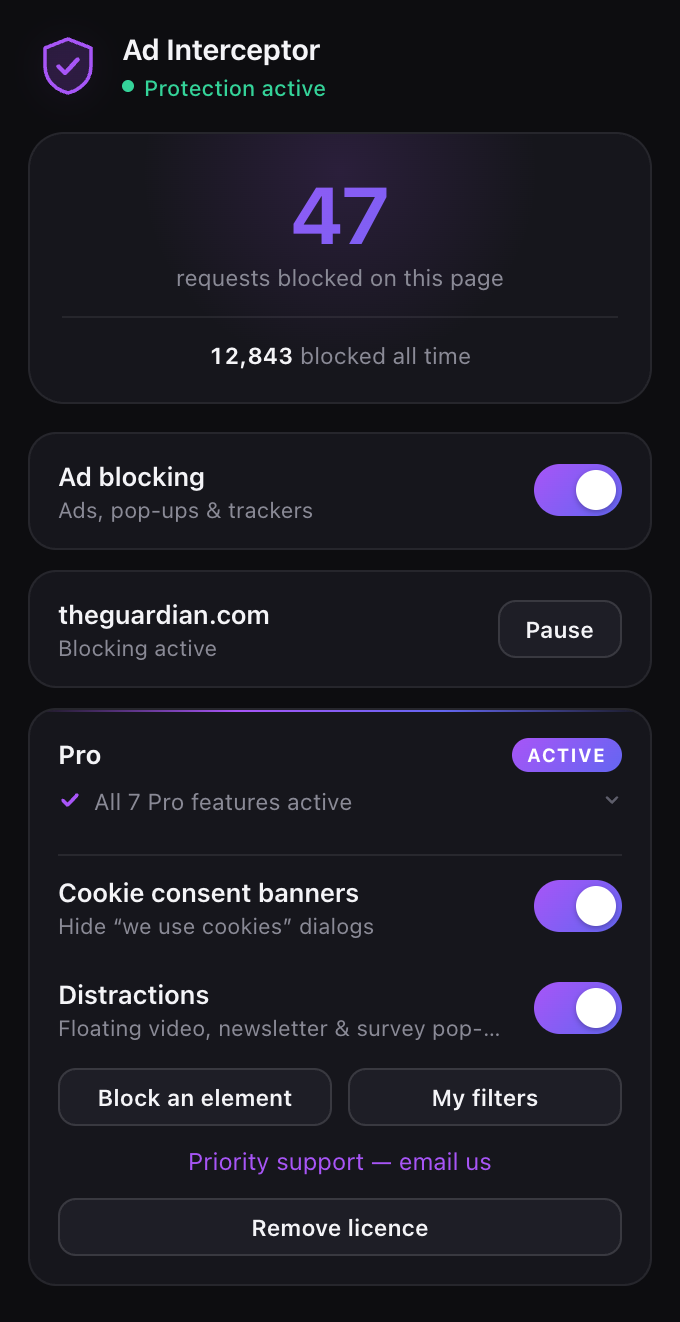
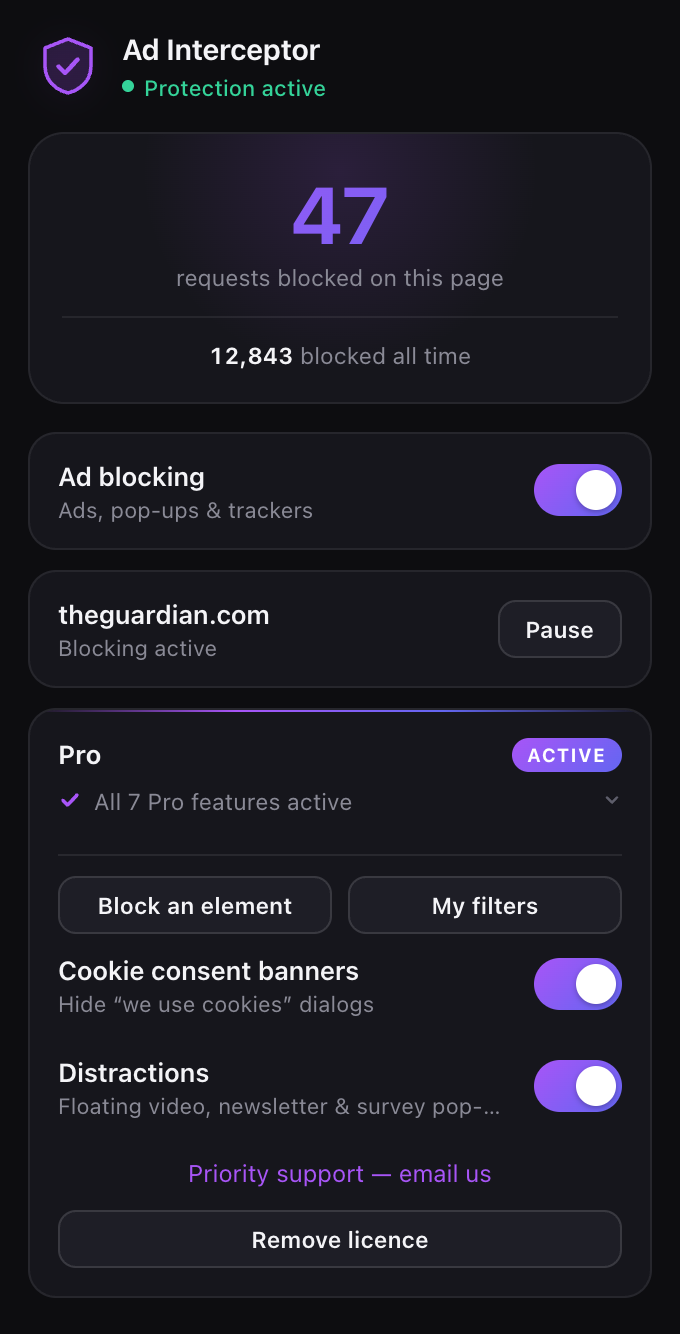
feat(popup): put the Pro actions above the toggles
Both toggles default to ON (background.js:162-163, popup.js:292), so a Pro user
almost never touches them — they are set-and-forget state. "Block an element"
and "My filters" are the only things in this section anyone actually opens the
popup to DO, and they were sitting underneath two switches that were already in
the position the user wanted.

State above actions buries the actions. Swapped.

.pro-actions also gains a real top margin: 4px was right when it trailed the
toggle rows and wrong now that it leads the section directly under a border.

diff --git a/popup.html b/popup.html
@@ -591,7 +591,9 @@
        read as the same control, not a second kind of switch. */
     .pro-controls { margin-top: 12px; border-top: 1px solid rgba(255,255,255,0.08); }
     .pro-controls .row { padding: 10px 0; }
-    .pro-actions { display: flex; gap: 8px; margin-top: 4px; }
+    /* Leads .pro-controls, so it needs a real gap under the section border
+       rather than the 4px it used when it trailed the toggle rows. */
+    .pro-actions { display: flex; gap: 8px; margin-top: 10px; }
     .pro-actions .btn { flex: 1; }
     .pro-support {
       display: block; margin-top: 10px; text-align: center;
@@ -748,6 +750,10 @@
          sales list, so showing them to a free user would be an invitation to
          click something that cannot work. -->
     <div class="pro-controls" id="proControls" hidden>
+      <div class="pro-actions">
+        <button class="btn" id="pickBtn">Block an element</button>
+        <button class="btn" id="filtersBtn">My filters</button>
+      </div>
       <label class="row">
         <span class="row-body">
           <span class="row-title">Cookie consent banners</span>
@@ -768,10 +774,6 @@
           <span class="slider"></span>
         </span>
       </label>
-      <div class="pro-actions">
-        <button class="btn" id="pickBtn">Block an element</button>
-        <button class="btn" id="filtersBtn">My filters</button>
-      </div>
       <!-- The subject tag is what makes "priority" operational rather than a
            claim: Pro mail is identifiable before it is opened. This block is
            only rendered for a licensed user, so the tag cannot be wrong.
